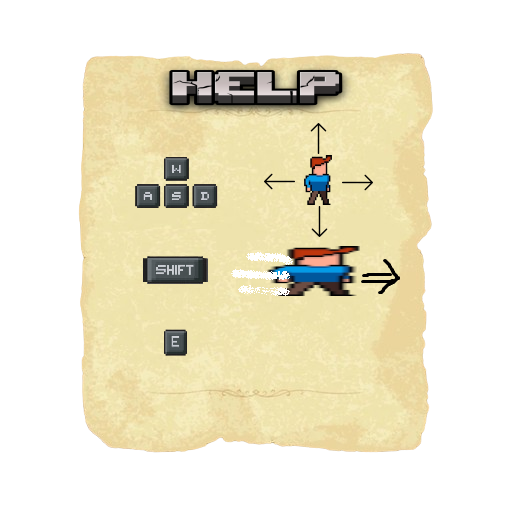
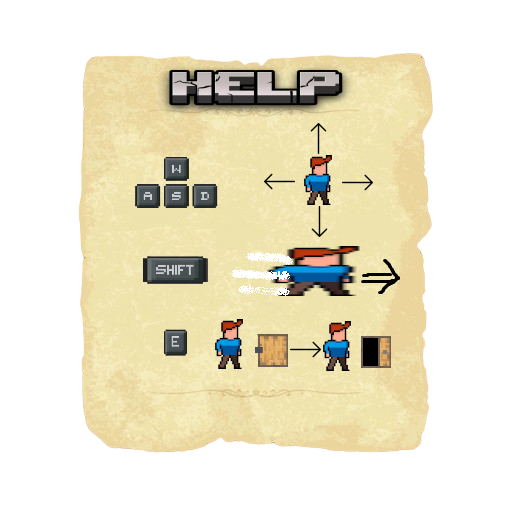
Main menu update, and better in-game help.

Changed region(s): [[0.5, 0.625, 0.7812, 0.7188], [0.4062, 0.625, 0.4688, 0.7188]]

diff --git a/src/main/java/org/game/UI/MainMenu.java b/src/main/java/org/game/UI/MainMenu.java
@@ -15,22 +15,30 @@ import java.util.ArrayList;
 public class MainMenu extends Updatable {
     private ArrayList<ImageUI> images = new ArrayList<>();
     private ArrayList<ButtonUI> buttons = new ArrayList<>();
-    private Sound click;
-    private boolean diffChose;
+    private boolean diff;
+    private boolean multi;
+    private boolean character;
 
     @Override
     public void onStart(Isten isten) {
-        diffChose = false;
         AudioManager.preloadSound("./assets/audio/click.ogg");
+
+        diff = false;
+        multi = false;
+        character = false;
+
         images.add(new ImageUI(new Vec2(0, -300), new Vec2(600, 150), "./assets/ui/logo.png"));
         images.add(new ImageUI(new Vec2(0, 375), new Vec2(300, 50), "./assets/ui/developer_logo.png"));
         images.add(new ImageUI(new Vec2(0, 0), new Vec2(isten.getRenderer().getWidth(), isten.getRenderer().getHeight()), "./assets/ui/menu_background.jpg"));
-        buttons.add(new ButtonUI(new Vec2(0, -100), new Vec2(375, 100), "./assets/ui/button_background.jpg", "Solo", "./assets/Monocraft.ttf", 50));
-        buttons.add(new ButtonUI(new Vec2(0, 50), new Vec2(375, 100), "./assets/ui/button_background.jpg", "Multi", "./assets/Monocraft.ttf", 50));
-        buttons.add(new ButtonUI(new Vec2(0, 200), new Vec2(375, 100), "./assets/ui/button_background.jpg", "Exit", "./assets/Monocraft.ttf", 50));
-        buttons.add(new ButtonUI(new Vec2(0, -100), new Vec2(375, 100), "./assets/ui/button_background.jpg", "Easy-peasy", "./assets/Monocraft.ttf", 50));
-        buttons.add(new ButtonUI(new Vec2(0, 50), new Vec2(375, 100), "./assets/ui/button_background.jpg", "Casual", "./assets/Monocraft.ttf", 50));
-        buttons.add(new ButtonUI(new Vec2(0, 200), new Vec2(375, 100), "./assets/ui/button_background.jpg", "Never", "./assets/Monocraft.ttf", 50));
+
+        buttons.add(new ButtonUI(new Vec2(0, -125), new Vec2(375, 100), "./assets/ui/button_background.jpg", "Solo", "./assets/Monocraft.ttf", 50));
+        buttons.add(new ButtonUI(new Vec2(0, 0), new Vec2(375, 100), "./assets/ui/button_background.jpg", "Multi", "./assets/Monocraft.ttf", 50));
+        buttons.add(new ButtonUI(new Vec2(0, 125), new Vec2(375, 100), "./assets/ui/button_background.jpg", "Character", "./assets/Monocraft.ttf", 50));
+        buttons.add(new ButtonUI(new Vec2(0, 250), new Vec2(375, 100), "./assets/ui/button_background.jpg", "Exit", "./assets/Monocraft.ttf", 50));
+        buttons.add(new ButtonUI(new Vec2(0, 250), new Vec2(375, 100), "./assets/ui/button_background.jpg", "Back", "./assets/Monocraft.ttf", 50));
+        buttons.add(new ButtonUI(new Vec2(0, -125), new Vec2(375, 100), "./assets/ui/button_background.jpg", "Easy-peasy", "./assets/Monocraft.ttf", 50));
+        buttons.add(new ButtonUI(new Vec2(0, 0), new Vec2(375, 100), "./assets/ui/button_background.jpg", "Casual", "./assets/Monocraft.ttf", 50));
+        buttons.add(new ButtonUI(new Vec2(0, 125), new Vec2(375, 100), "./assets/ui/button_background.jpg", "Never", "./assets/Monocraft.ttf", 50));
 
         for (Renderable r : images) {
             r.setAlignment(Renderable.CENTER, Renderable.CENTER);
@@ -43,31 +51,45 @@ public class MainMenu extends Updatable {
             isten.getRenderer().addRenderable(r);
             r.setSortingLayer(-69);
         }
-        for (int i = 0; i < 6; i++) {
-            if (i > 2) buttons.get(i).setVisibility(false);
+        for (int i = 0; i < buttons.size(); i++) {
+            if (i > 3) buttons.get(i).setVisibility(false);
         }
         buttons.get(0).addClickListener(() -> {
             AudioManager.playSound("./assets/audio/click.ogg");
-            diffChose = true;
+            diff = true;
         });
-        buttons.get(1).addClickListener(()->{
+        buttons.get(1).addClickListener(() -> {
             AudioManager.playSound("./assets/audio/click.ogg");
+            multi = true;
         });
         buttons.get(2).addClickListener(() -> {
             AudioManager.playSound("./assets/audio/click.ogg");
-            GameManager.setStage(GameManager.GameStage.EXIT);
+            character = true;
         });
         buttons.get(3).addClickListener(() -> {
+            AudioManager.playSound("./assets/audio/click.ogg");
+            GameManager.setStage(GameManager.GameStage.EXIT);
+        });
+        buttons.get(4).addClickListener(() -> {
+            AudioManager.playSound("./assets/audio/click.ogg");
+            diff = false;
+            multi = false;
+            character = false;
+            for (int i = 0; i < buttons.size(); i++) {
+                buttons.get(i).setVisibility(i <= 3);
+            }
+        });
+        buttons.get(5).addClickListener(() -> {
             AudioManager.playSound("./assets/audio/click.ogg");
             TimeCounter.setTime(901);
             GameManager.setStage(GameManager.GameStage.INGAME);
         });
-        buttons.get(4).addClickListener(() -> {
+        buttons.get(6).addClickListener(() -> {
             AudioManager.playSound("./assets/audio/click.ogg");
             TimeCounter.setTime(601);
             GameManager.setStage(GameManager.GameStage.INGAME);
         });
-        buttons.get(5).addClickListener(() -> {
+        buttons.get(7).addClickListener(() -> {
             AudioManager.playSound("./assets/audio/click.ogg");
             TimeCounter.setTime(11);
             GameManager.setStage(GameManager.GameStage.INGAME);
@@ -77,10 +99,22 @@ public class MainMenu extends Updatable {
     @Override
     public void onUpdate(Isten isten, double deltaTime) {
         images.get(images.size() - 1).setScale(new Vec2(isten.getRenderer().getWidth(), isten.getRenderer().getHeight()));
-        if (diffChose && !buttons.get(3).getVisibility()) {
-            for (int i = 0; i < 6; i++) {
-                if (i < 3) buttons.get(i).setVisibility(false);
+        if (diff && !buttons.get(5).getVisibility()) {
+            for (int i = 0; i < buttons.size(); i++) {
+                if (i < 4) buttons.get(i).setVisibility(false);
                 else buttons.get(i).setVisibility(true);
+            }
+        }
+        if (multi && !buttons.get(4).getVisibility()) {
+            for (int i = 0; i < buttons.size(); i++) {
+                if (i == 4) buttons.get(i).setVisibility(true);
+                else buttons.get(i).setVisibility(false);
+            }
+        }
+        if (character && !buttons.get(4).getVisibility()) {
+            for (int i = 0; i < buttons.size(); i++) {
+                if (i == 4) buttons.get(i).setVisibility(true);
+                else buttons.get(i).setVisibility(false);
             }
         }
     }

diff --git a/src/main/java/org/game/UI/Help.java b/src/main/java/org/game/UI/Help.java
@@ -20,7 +20,7 @@ public class Help extends Updatable {
     public void onStart(Isten isten) {
         help = new ImageUI(new Vec2(0, 0), new Vec2(600, 600), "./assets/ui/help.png");
         help.setVisibility(false);
-        help.setSortingLayer(-70);
+        help.setSortingLayer(-72);
         help.setAlignment(Renderable.CENTER,Renderable.CENTER);
         isten.getRenderer().addRenderable(help);
     }

diff --git a/src/main/java/org/game/UI/GameMenu.java b/src/main/java/org/game/UI/GameMenu.java
@@ -16,6 +16,8 @@ public class GameMenu extends Updatable {
 
     @Override
     public void onStart(Isten isten) {
+        AudioManager.preloadSound("./assets/audio/click.ogg");
+
         escape = new ButtonUI(new Vec2(0, 100), new Vec2(375, 100), "./assets/ui/button_background.jpg", "Escape", "./assets/Monocraft.ttf", 50);
 
         escape.setAlignment(Renderable.CENTER,Renderable.CENTER);
